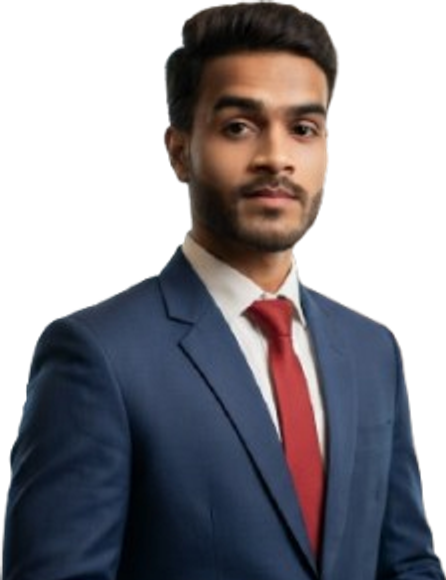
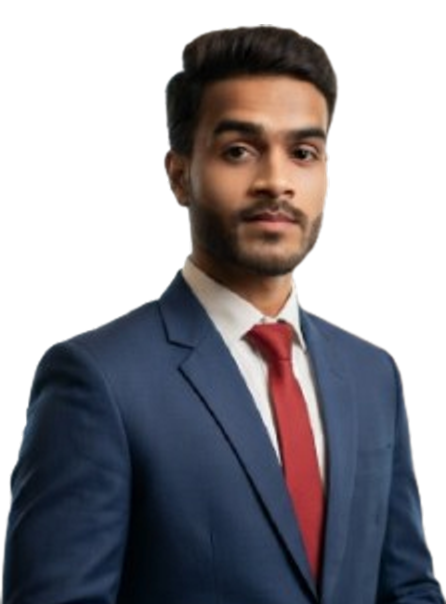
fix hero section

diff --git a/components/sections/hero.tsx b/components/sections/hero.tsx
@@ -3,84 +3,128 @@ import { ArrowRight, Download } from "lucide-react";
 import { Button } from "@/components/ui/button";
 import portrait from "@/public/images/profile2.png";
 
+const PORTRAIT_DIM = 0.25;
+const OVERLAP_RATIO = 0.38;
+
 export function Hero() {
+  const ratio = portrait.width / portrait.height;
+  const invRatio = portrait.height / portrait.width;
+
   return (
     <section
       id="hero"
       aria-label="Introduction"
-      className="relative flex min-h-svh w-full flex-col items-center justify-end overflow-hidden bg-background pt-20 pb-6 sm:pb-8 md:pb-10 lg:pb-12 scroll-mt-24"
+      className="relative flex min-h-svh w-full flex-col items-center justify-center overflow-hidden bg-background pt-16 sm:pt-20 pb-4 sm:pb-6 scroll-mt-24"
+      style={
+        {
+          "--portrait-w": `min(100vw, calc((100svh - 7rem) * ${ratio}))`,
+          "--portrait-h": `calc(var(--portrait-w) * ${invRatio})`,
+          "--text-overlap": `calc(var(--portrait-h) * -${OVERLAP_RATIO})`,
+        } as React.CSSProperties
+      }
     >
-      {/* Portrait Container */}
-      <div className="pointer-events-none absolute inset-x-0 bottom-0 flex justify-center">
+      {/* Centered content stack; my-auto centers stack in leftover space on tall viewports */}
+      <div className="my-auto flex w-full flex-col items-center">
+        {/*
+          Portrait box: sized by the CSS variables.
+          The dim overlay and the bottom fade are SIBLINGS of the shadow wrapper,
+          never inside it, so the drop-shadow is built only from the cutout's alpha.
+        */}
         <div
-          className="relative h-[76svh] md:h-[calc(100svh-7rem)] w-auto max-w-none"
-          style={{
-            aspectRatio: `${portrait.width} / ${portrait.height}`,
-            WebkitMaskImage:
-              "radial-gradient(ellipse at 50% 38%, black 50%, transparent 80%)",
-            maskImage:
-              "radial-gradient(ellipse at 50% 38%, black 50%, transparent 80%)",
-          }}
+          className="pointer-events-none relative mx-auto"
+          style={{ width: "var(--portrait-w)", height: "var(--portrait-h)" }}
         >
-          <Image
-            src={portrait}
-            alt="Portrait of Devendra Singh Baghel"
-            priority
-            sizes="(max-width: 768px) 100vw, 60vw"
-            className="size-full object-contain object-bottom"
-            style={{
-              filter:
-                "grayscale(1) contrast(1.1) brightness(1.08) drop-shadow(10px 0 24px rgba(244, 242, 236, 0.2))",
-            }}
+          {/* Shadow wrapper: ONLY the masked image lives here */}
+          <div
+            className="size-full"
+          >
+            <div
+              className="size-full"
+              style={{
+                WebkitMaskImage:
+                  "radial-gradient(ellipse at 50% 40%, black 50%, transparent 80%)",
+                maskImage:
+                  "radial-gradient(ellipse at 50% 40%, black 50%, transparent 80%)",
+              }}
+            >
+              <Image
+                src={portrait}
+                alt="Portrait of Devendra Singh Baghel"
+                priority
+                sizes="(max-width: 768px) 100vw, 60vw"
+                className="size-full object-contain object-bottom"
+                style={{
+                  filter: "grayscale(1) contrast(1.1) brightness(0.88)",
+                }}
+              />
+            </div>
+          </div>
+
+          {/* Tunable dimming overlay (outside the shadow wrapper) */}
+          <div
+            className="pointer-events-none absolute inset-0 bg-background"
+            style={{ opacity: PORTRAIT_DIM }}
+            aria-hidden="true"
           />
 
-          {/* Gentle bottom fade so the portrait smoothly merges into the background behind text */}
+          {/* Gentle bottom fade so the lower torso merges into the background behind the text */}
           <div
             className="pointer-events-none absolute inset-x-0 bottom-0 h-1/2 bg-linear-to-t from-background via-background/60 to-transparent"
             aria-hidden="true"
           />
         </div>
-      </div>
 
-      {/* Text & CTAs Container */}
-      <div className="relative z-10 flex max-w-5xl flex-col items-center px-4 text-center">
-        <div className="flex flex-col items-center gap-2 sm:gap-3 md:gap-4">
-          <p className="font-mono text-xs uppercase tracking-[0.25em] text-muted-foreground sm:text-sm">
-            FULL-STACK DEVELOPER
-          </p>
+        {/*
+          Text & CTAs Container:
+          - In-flow element pulled up over the portrait's chest via negative margin
+          - Negative margin is a constant fraction of portrait height (OVERLAP_RATIO),
+            ensuring the chin-to-text gap remains proportional on all screen sizes
+        */}
+        <div
+          className="relative z-10 flex max-w-5xl flex-col items-center px-4 sm:px-6 text-center"
+          style={{ marginTop: "var(--text-overlap)" }}
+        >
+          <div className="flex flex-col items-center gap-2 sm:gap-3 md:gap-4">
+            <p className="font-mono text-xs uppercase tracking-[0.25em] text-muted-foreground sm:text-sm">
+              FULL-STACK DEVELOPER
+            </p>
 
-          <h1 className="font-serif text-[clamp(2.125rem,8.5vw,7.5rem)] font-normal leading-[0.95] tracking-tight text-foreground whitespace-nowrap">
-            Devendra Singh
-            <span className="sr-only"> Baghel</span>
-          </h1>
+            <h1 className="font-serif text-[clamp(2.125rem,8.5vw,7.5rem)] font-normal leading-[0.95] tracking-tight text-foreground whitespace-nowrap">
+              Devendra Singh
+              <span className="sr-only"> Baghel</span>
+            </h1>
 
-          <p className="max-w-[32rem] text-sm leading-relaxed text-muted-foreground sm:text-base md:text-lg">
-            I build reliable APIs and practical web applications.
-          </p>
-        </div>
+            <p className="max-w-[32rem] text-sm leading-relaxed text-muted-foreground sm:text-base md:text-lg">
+              I build reliable APIs and practical web applications.
+            </p>
+          </div>
 
-        <div className="flex flex-wrap items-center justify-center gap-3 sm:gap-4 pt-6 sm:pt-8">
-          <Button asChild className="h-11 rounded-full px-6 text-sm font-medium">
-            <a href="#projects" className="inline-flex items-center gap-1.5">
-              <span>Explore Projects</span>
-              <ArrowRight className="size-4" aria-hidden="true" />
-            </a>
-          </Button>
-
-          <Button
-            asChild
-            variant="outline"
-            className="h-11 rounded-full px-6 text-sm font-medium"
-          >
-            <a
-              href="/Devendra-Singh-Baghel-Resume.pdf"
-              download="Devendra-Singh-Baghel-Resume.pdf"
-              className="inline-flex items-center gap-2"
+          <div className="flex flex-wrap items-center justify-center gap-2.5 sm:gap-4 pt-6 sm:pt-8">
+            <Button
+              asChild
+              className="h-11 rounded-full px-4 sm:px-6 text-sm font-medium"
             >
-              <Download className="size-4" aria-hidden="true" />
-              <span>Download Resume</span>
-            </a>
-          </Button>
+              <a href="#projects" className="inline-flex items-center gap-1.5">
+                <span>Explore Projects</span>
+                <ArrowRight className="size-4" aria-hidden="true" />
+              </a>
+            </Button>
+
+            <Button
+              asChild
+              variant="outline"
+              className="h-11 rounded-full px-4 sm:px-6 text-sm font-medium"
+            >
+              <a
+                href="/Devendra-Singh-Baghel-Resume.pdf"
+                download="Devendra-Singh-Baghel-Resume.pdf"
+                className="inline-flex items-center gap-2"
+              >
+                <Download className="size-4" aria-hidden="true" />
+                <span>Download Resume</span>
+              </a>
+            </Button>
+          </div>
         </div>
       </div>
     </section>
